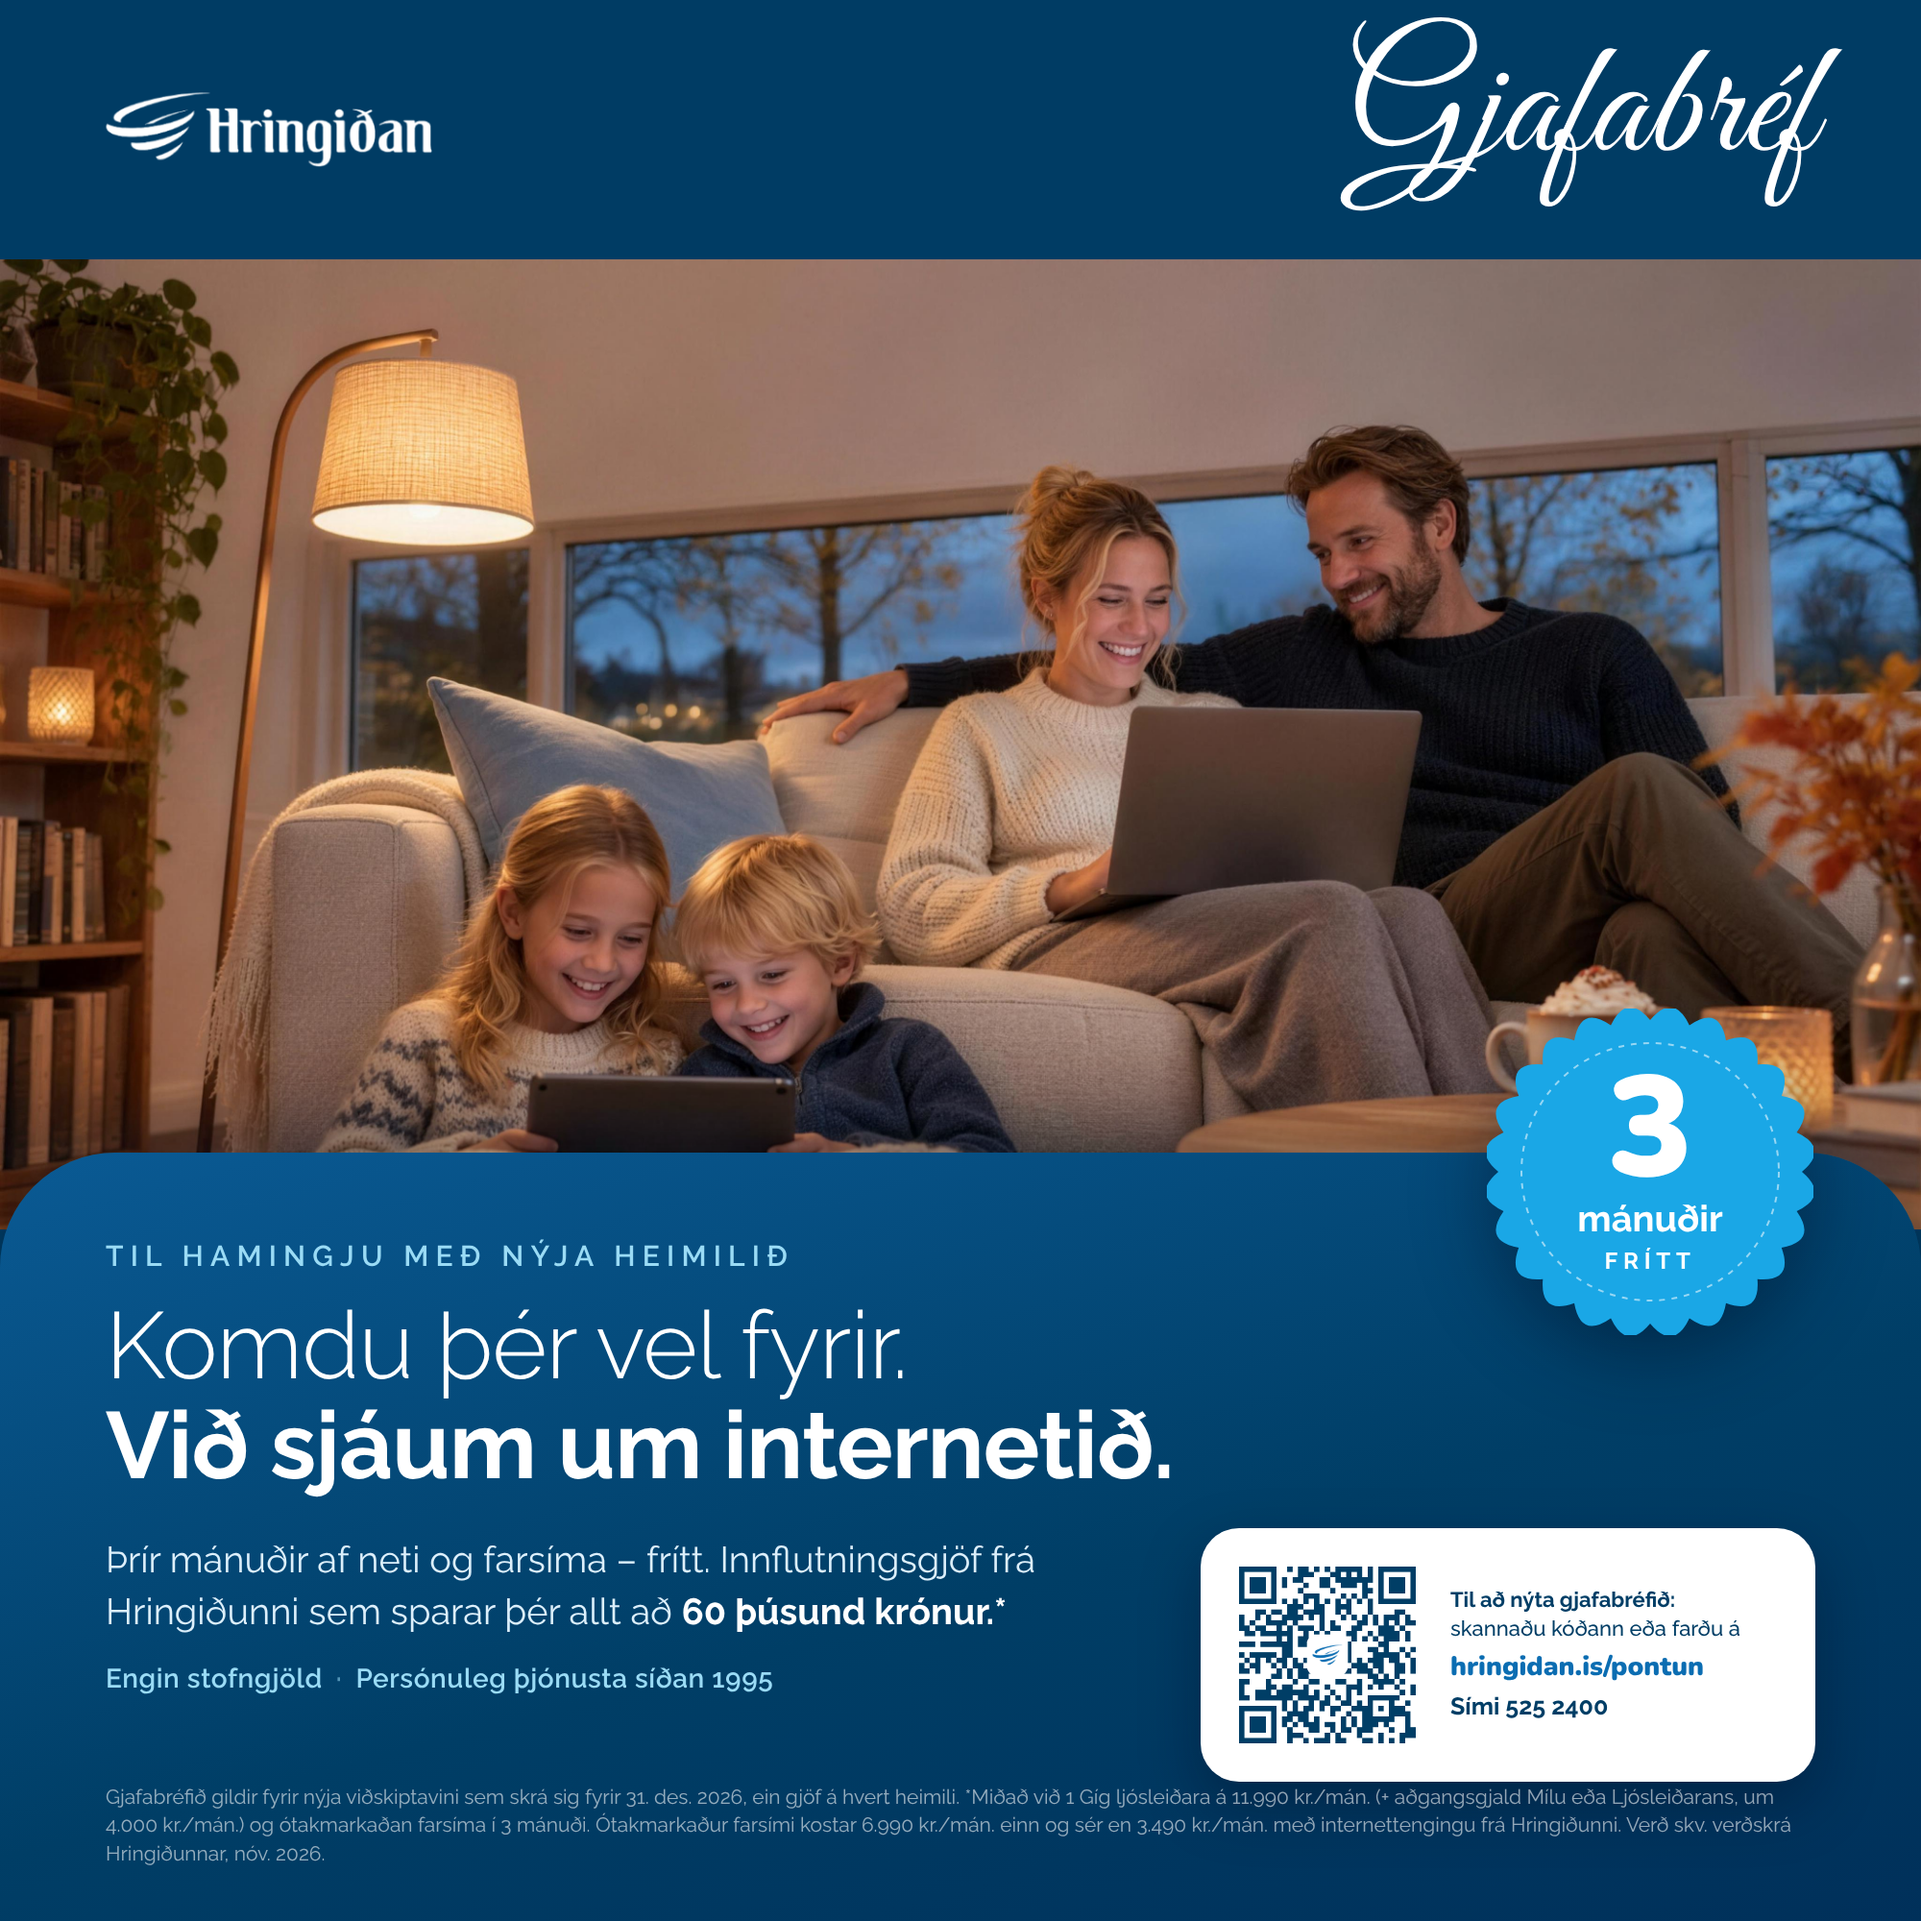
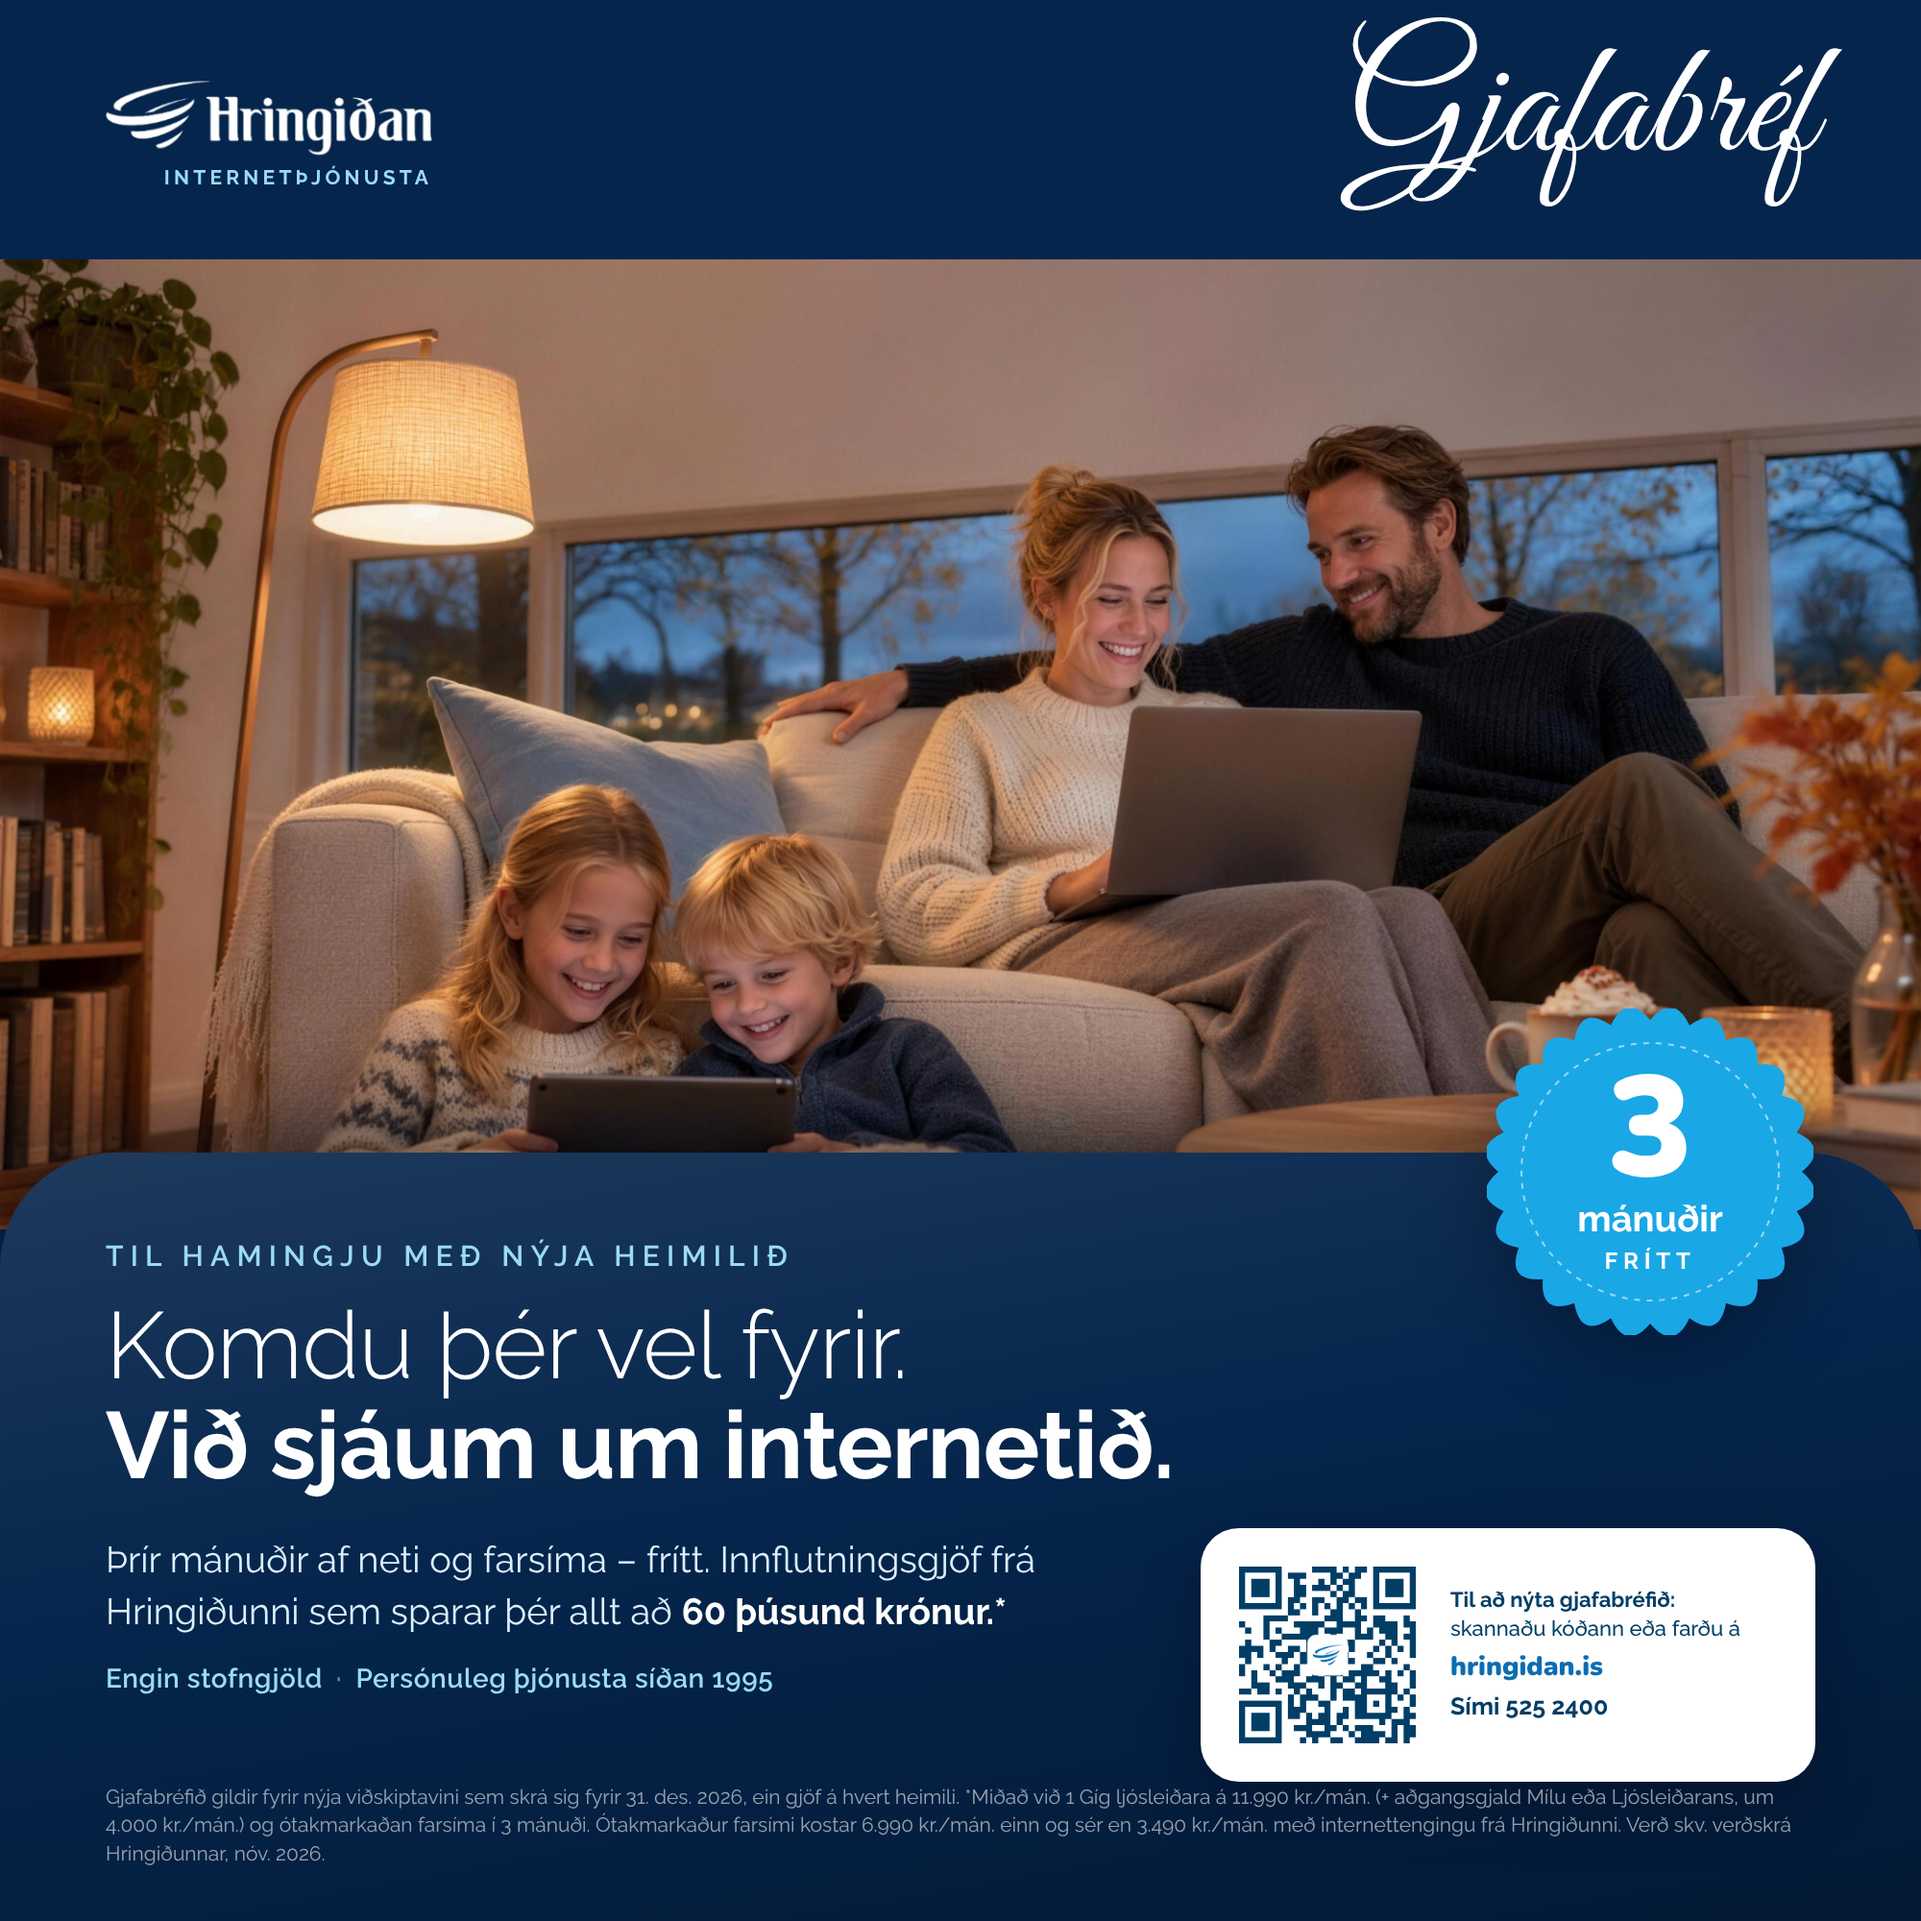
Hringiðan gjafabréf: dekkri navy, Internetþjónusta undir lógói, hringidan.is
Böndin í sama dökkbláa lit og gjafakortið, „Internetþjónusta" undir
lógóinu, slóðin og QR-kóðinn vísa á hringidan.is í stað /pontun.

Claude-Session: https://claude.ai/code/session_01JAXd2m9cesSq5STdzJxvnq

diff --git a/auglysingar/hringidan/src/hringidan-gjafabref-2d.html b/auglysingar/hringidan/src/hringidan-gjafabref-2d.html
@@ -2,14 +2,15 @@
 <link rel="stylesheet" href="base.css">
 <style>
   @font-face { font-family: 'GreatVibes'; src: url('GreatVibes.woff2') format('woff2'); }
-  .ad { background: #003C64; color: #fff; }
-  .head { position: absolute; left: 0; top: 0; width: 2000px; height: 270px; background: #003C64; }
-  .logo { position: absolute; left: 110px; top: 96px; width: 340px; }
+  .ad { background: #05254C; color: #fff; }
+  .head { position: absolute; left: 0; top: 0; width: 2000px; height: 270px; background: #05254C; }
+  .logo { position: absolute; left: 110px; top: 84px; width: 340px; }
+  .logosub { position: absolute; left: 110px; top: 172px; width: 340px; text-align: right; font-size: 21px; font-weight: 700; letter-spacing: .2em; text-transform: uppercase; color: #9ADBF5; }
   .gift { position: absolute; right: 110px; top: 34px; font-family: 'GreatVibes', cursive; font-size: 168px; line-height: 1; color: #fff; }
   .photo { position: absolute; left: 0; top: 270px; width: 2000px; height: 1010px; overflow: hidden; }
-  .photo img { width: 2000px; height: 1010px; display: block; object-fit: cover; object-position: 50% 60%; background: #003C64; }
+  .photo img { width: 2000px; height: 1010px; display: block; object-fit: cover; object-position: 50% 60%; background: #05254C; }
   .panel { position: absolute; left: 0; right: 0; top: 1200px; bottom: 0; border-radius: 120px 120px 0 0; padding: 90px 110px 0;
-           background: linear-gradient(165deg, #0A5A94 0%, #003E66 55%, #00305A 100%); box-shadow: 0 -30px 80px rgba(0,20,40,.35); }
+           background: linear-gradient(170deg, #1E3A5D 0%, #05254C 45%, #031935 100%); box-shadow: 0 -30px 80px rgba(0,10,25,.45); }
   .eyebrow { font-size: 30px; font-weight: 600; letter-spacing: .24em; text-transform: uppercase; color: var(--sky); }
   .headline { margin-top: 24px; font-size: 98px; line-height: 1.06; font-weight: 300; letter-spacing: -0.01em; }
   .headline b { font-weight: 700; }
@@ -36,7 +37,7 @@
   .seal .small { font-size: 24px; font-weight: 700; letter-spacing: .24em; text-transform: uppercase; margin-top: 10px; }
 </style></head><body><div class="ad">
   <div class="head"></div>
-  <img class="logo" src="logo_white.png" alt="Hringiðan">
+  <img class="logo" src="logo_white.png" alt="Hringiðan"><div class="logosub">Internetþjónusta</div>
   <div class="gift">Gjafabréf</div>
   <div class="photo"><img src="illu.png" alt=""></div>
   <div class="panel">
@@ -48,8 +49,8 @@
         <div class="quiet">Engin stofngjöld<span>·</span>Persónuleg þjónusta síðan 1995</div>
       </div>
       <div class="cta">
-        <div class="qr"><img src="qr.png" alt="QR"></div>
-        <div class="txt"><b>Til að nýta gjafabréfið:</b><br>skannaðu kóðann eða farðu&nbsp;á<div class="url">hringidan.is/pontun</div><div class="tel">Sími 525 2400</div></div>
+        <div class="qr"><img src="qr_is.png" alt="QR"></div>
+        <div class="txt"><b>Til að nýta gjafabréfið:</b><br>skannaðu kóðann eða farðu&nbsp;á<div class="url">hringidan.is</div><div class="tel">Sími 525 2400</div></div>
       </div>
     </div>
     <p class="fine">Gjafabréfið gildir fyrir nýja viðskiptavini sem skrá sig fyrir 31. des. 2026, ein gjöf á hvert heimili. *Miðað við 1 Gíg ljósleiðara á 11.990 kr./mán. (+ aðgangsgjald Mílu eða Ljósleiðarans, um 4.000 kr./mán.) og ótakmarkaðan farsíma í 3 mánuði. Ótakmarkaður farsími kostar 6.990 kr./mán. einn og sér en 3.490 kr./mán. með internettengingu frá Hringiðunni. Verð skv. verðskrá Hringiðunnar, nóv. 2026.</p>

diff --git a/auglysingar/hringidan/src/hringidan-gjafabref-ljosmynd.html b/auglysingar/hringidan/src/hringidan-gjafabref-ljosmynd.html
@@ -2,14 +2,15 @@
 <link rel="stylesheet" href="base.css">
 <style>
   @font-face { font-family: 'GreatVibes'; src: url('GreatVibes.woff2') format('woff2'); }
-  .ad { background: #003C64; color: #fff; }
-  .head { position: absolute; left: 0; top: 0; width: 2000px; height: 270px; background: #003C64; }
-  .logo { position: absolute; left: 110px; top: 96px; width: 340px; }
+  .ad { background: #05254C; color: #fff; }
+  .head { position: absolute; left: 0; top: 0; width: 2000px; height: 270px; background: #05254C; }
+  .logo { position: absolute; left: 110px; top: 84px; width: 340px; }
+  .logosub { position: absolute; left: 110px; top: 172px; width: 340px; text-align: right; font-size: 21px; font-weight: 700; letter-spacing: .2em; text-transform: uppercase; color: #9ADBF5; }
   .gift { position: absolute; right: 110px; top: 34px; font-family: 'GreatVibes', cursive; font-size: 168px; line-height: 1; color: #fff; }
   .photo { position: absolute; left: 0; top: 270px; width: 2000px; height: 1010px; overflow: hidden; }
   .photo img { width: 2000px; height: 1010px; display: block; object-fit: cover; object-position: 50% 72%; }
   .panel { position: absolute; left: 0; right: 0; top: 1200px; bottom: 0; border-radius: 120px 120px 0 0; padding: 90px 110px 0;
-           background: linear-gradient(165deg, #0A5A94 0%, #003E66 55%, #00305A 100%); box-shadow: 0 -30px 80px rgba(0,20,40,.35); }
+           background: linear-gradient(170deg, #1E3A5D 0%, #05254C 45%, #031935 100%); box-shadow: 0 -30px 80px rgba(0,10,25,.45); }
   .eyebrow { font-size: 30px; font-weight: 600; letter-spacing: .24em; text-transform: uppercase; color: var(--sky); }
   .headline { margin-top: 24px; font-size: 98px; line-height: 1.06; font-weight: 300; letter-spacing: -0.01em; }
   .headline b { font-weight: 700; }
@@ -36,7 +37,7 @@
   .seal .small { font-size: 24px; font-weight: 700; letter-spacing: .24em; text-transform: uppercase; margin-top: 10px; }
 </style></head><body><div class="ad">
   <div class="head"></div>
-  <img class="logo" src="logo_white.png" alt="Hringiðan">
+  <img class="logo" src="logo_white.png" alt="Hringiðan"><div class="logosub">Internetþjónusta</div>
   <div class="gift">Gjafabréf</div>
   <div class="photo"><img src="photo_c.jpg" alt=""></div>
   <div class="panel">
@@ -48,8 +49,8 @@
         <div class="quiet">Engin stofngjöld<span>·</span>Persónuleg þjónusta síðan 1995</div>
       </div>
       <div class="cta">
-        <div class="qr"><img src="qr.png" alt="QR"></div>
-        <div class="txt"><b>Til að nýta gjafabréfið:</b><br>skannaðu kóðann eða farðu&nbsp;á<div class="url">hringidan.is/pontun</div><div class="tel">Sími 525 2400</div></div>
+        <div class="qr"><img src="qr_is.png" alt="QR"></div>
+        <div class="txt"><b>Til að nýta gjafabréfið:</b><br>skannaðu kóðann eða farðu&nbsp;á<div class="url">hringidan.is</div><div class="tel">Sími 525 2400</div></div>
       </div>
     </div>
     <p class="fine">Gjafabréfið gildir fyrir nýja viðskiptavini sem skrá sig fyrir 31. des. 2026, ein gjöf á hvert heimili. *Miðað við 1 Gíg ljósleiðara á 11.990 kr./mán. (+ aðgangsgjald Mílu eða Ljósleiðarans, um 4.000 kr./mán.) og ótakmarkaðan farsíma í 3 mánuði. Ótakmarkaður farsími kostar 6.990 kr./mán. einn og sér en 3.490 kr./mán. með internettengingu frá Hringiðunni. Verð skv. verðskrá Hringiðunnar, nóv. 2026.</p>

diff --git a/auglysingar/hringidan/README.md b/auglysingar/hringidan/README.md
@@ -1,7 +1,7 @@
 # Hringiðan – Gjafabréf („Komdu þér vel fyrir“)
 
-Endurhönnun á innflutningsgjöf Hringiðunnar sem **gjafabréf**: navy-blátt band efst með lógóinu vinstra megin og
-„Gjafabréf“ í skrautskrift hægra megin, fjölskyldumynd út í kant í kósý stemningu þar sem mamman er í tölvunni og
+Endurhönnun á innflutningsgjöf Hringiðunnar sem **gjafabréf**: dökkblátt band efst (sami navy-litur og á gjafakortinu,
+`#05254C`) með lógóinu og „Internetþjónusta“ vinstra megin og „Gjafabréf“ í skrautskrift hægra megin, fjölskyldumynd út í kant í kósý stemningu þar sem mamman er í tölvunni og
 pabbinn horfir á hana, krakkarnir með spjaldtölvu fyrir framan sófann, ávalur blár textaflötur og innsigli „3 mánuðir frítt“. Innblástur: uppsetning Sýn-póstsins
 (eitt ríkjandi litaþema, stór ávöl form, stuttur og vinalegur texti). Lógó, litir, QR-kóði og tilboð Hringiðunnar halda sér.
 
@@ -23,7 +23,7 @@ pabbinn horfir á hana, krakkarnir með spjaldtölvu fyrir framan sófann, ával
 - Meginmál: *Þrír mánuðir af neti og farsíma – frítt. Innflutningsgjöf frá Hringiðunni sem sparar þér allt að 60 þúsund krónur.**
 - Lágstemmd lína: *Engin stofngjöld · Persónuleg þjónusta síðan 1995*
 - Innsigli: *3 mánuðir frítt*
-- QR-spjald: *Til að nýta gjafabréfið: skannaðu kóðann eða farðu á hringidan.is/pontun · Sími 525 2400*
+- QR-spjald: *Til að nýta gjafabréfið: skannaðu kóðann eða farðu á hringidan.is · Sími 525 2400*
 - Smáletur: 1 Gíg ljósleiðari 11.990 kr./mán. (+ aðgangsgjald Mílu eða Ljósleiðarans, um 4.000 kr./mán.),
   ótakmarkaður farsími 6.990 kr./mán. einn og sér en 3.490 kr./mán. með internettengingu.
 
@@ -38,7 +38,7 @@ pabbinn horfir á hana, krakkarnir með spjaldtölvu fyrir framan sófann, ával
 - „Allt að 60 þúsund“: 1 Gíg (11.990) + farsími á fullu verði (6.990) × 3 = 56.940 kr.; með 2,5 Gíg = 59.940 kr.
   Ef farsíminn er reiknaður á 3.490 kr. verður sparnaðurinn 46.440 kr. nema aðgangsgjaldið sé líka gefið.
 
-QR-kóðinn vísar á `https://hringidan.is/pontun/` (staðfest með afkóðun úr endanlegu myndunum).
+QR-kóðinn á gjafabréfs-auglýsingunum (`src/qr_is.png`) vísar á `https://hringidan.is/`; á gjafakortinu (`src/qr.png`) á `https://hringidan.is/pontun/`. Hvort tveggja staðfest með afkóðun úr endanlegu myndunum.
 
 ## Gjafakortið (1:1)
 
